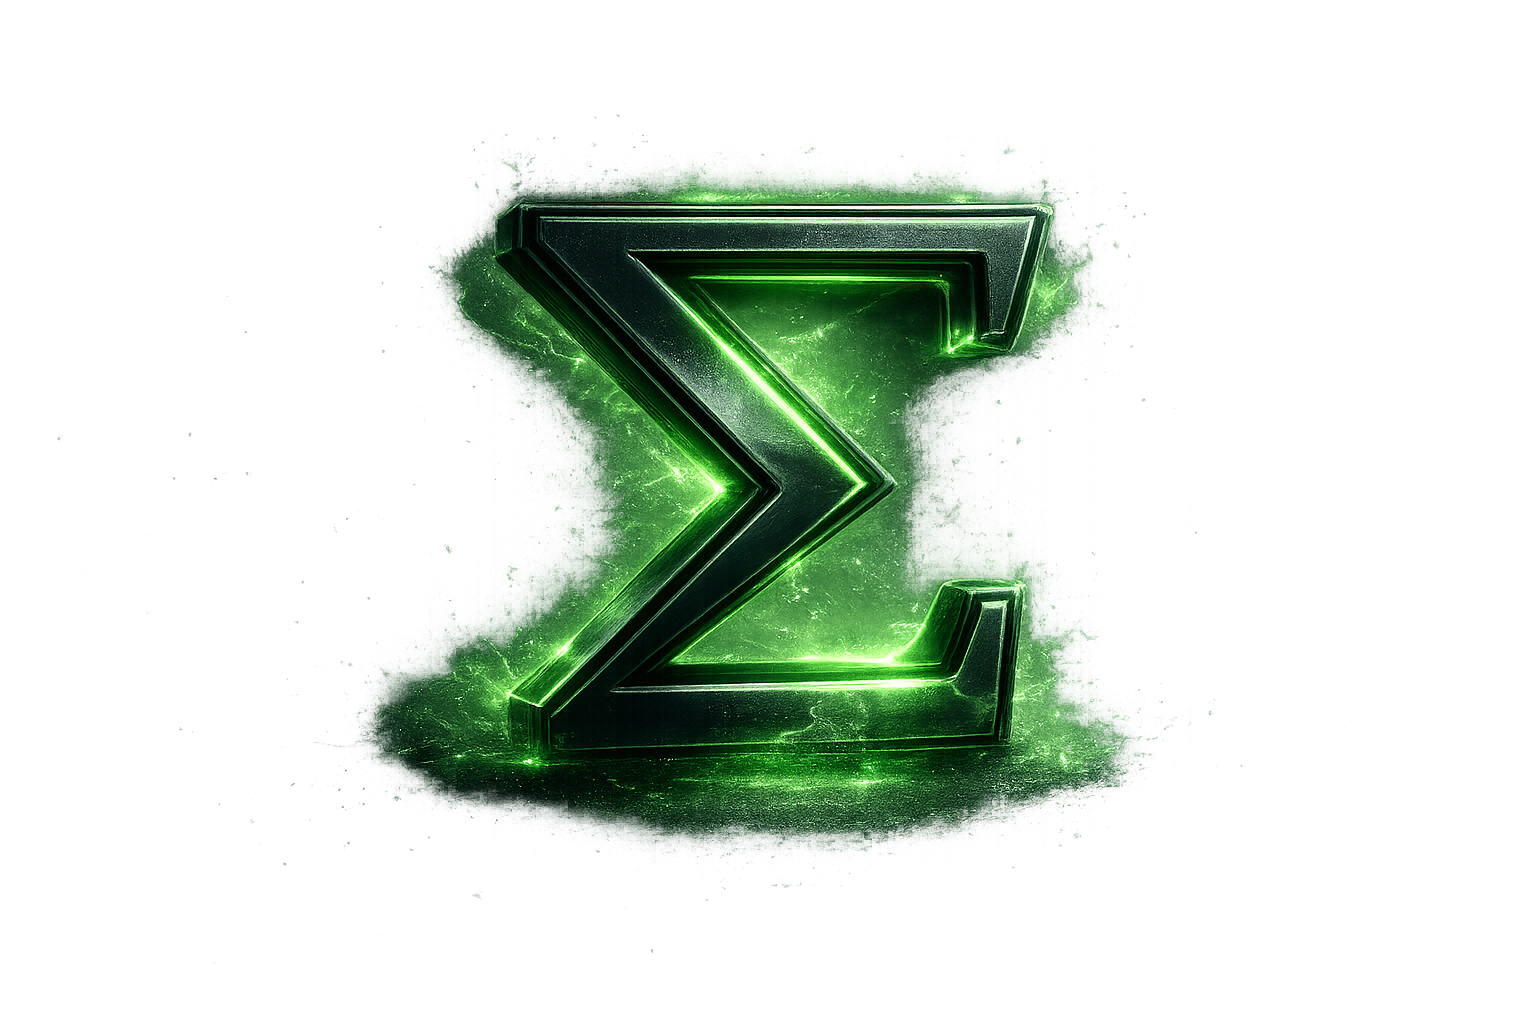
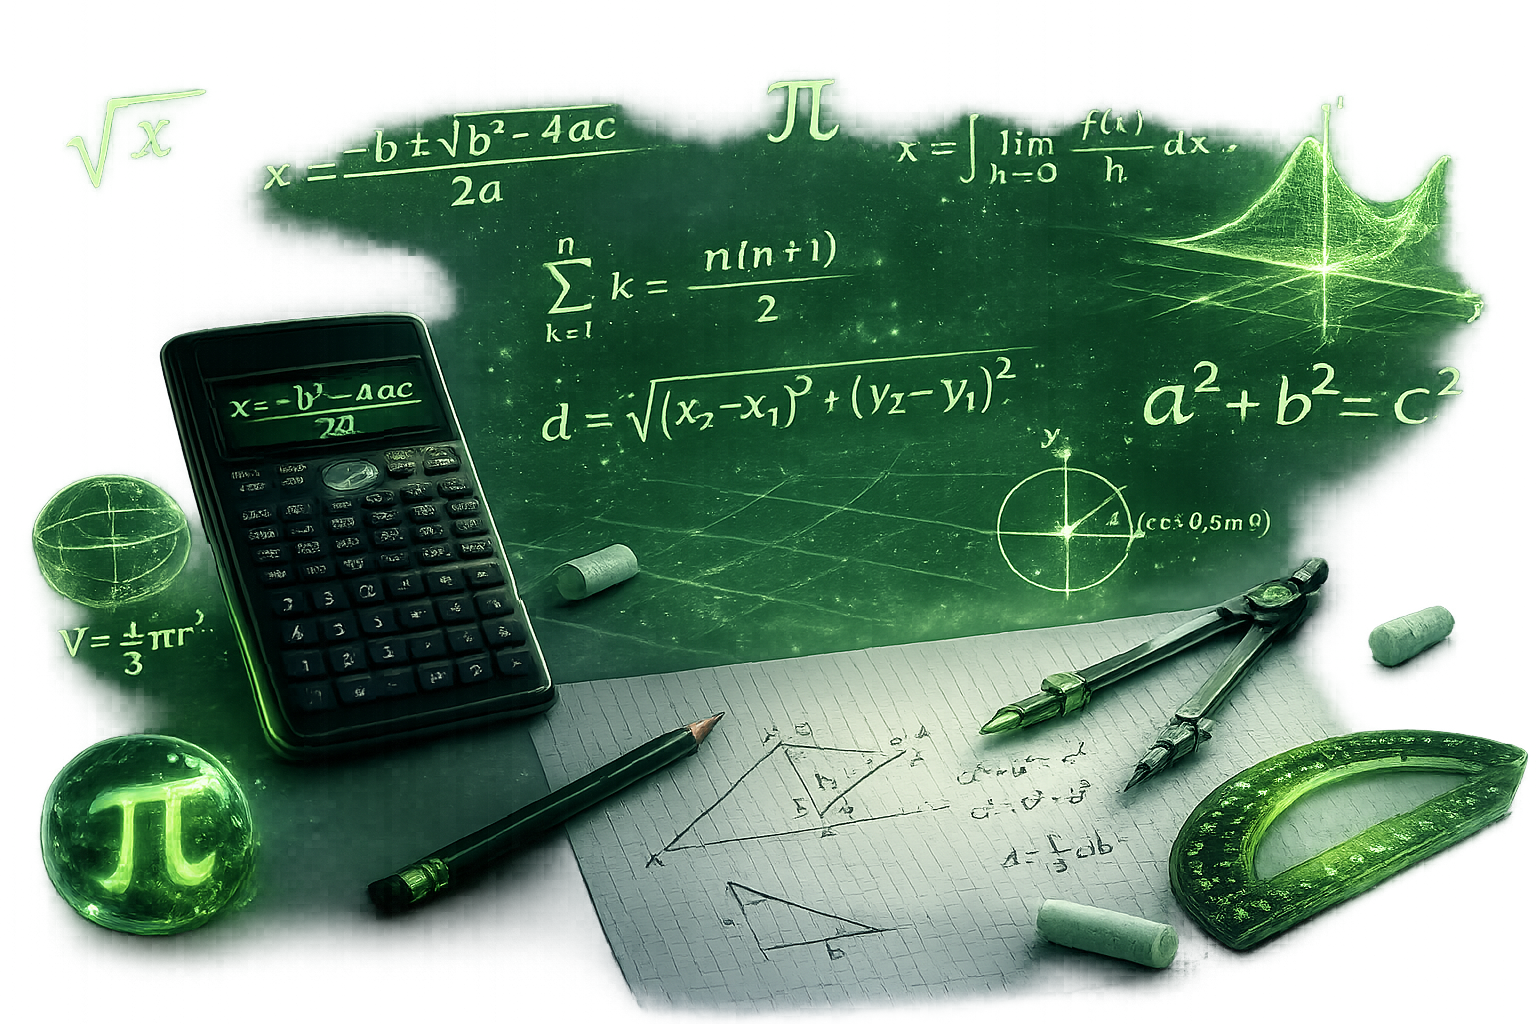
feat(subjects): biologiya fani qoshildi + 5ta fan uchun rasm (matematika yangilandi)

diff --git a/src/config/subjects.tsx b/src/config/subjects.tsx
@@ -6,7 +6,7 @@
  * available: false → "Tez kunda" holatida ko'rsatiladi (locked).
  * available: true bo'lishi uchun fan ma'lumotlari (API/questions) tayyor bo'lishi kerak.
  */
-import { Car, Zap, FlaskConical, Globe, BookOpen, type LucideIcon, type LucideProps } from 'lucide-react'
+import { Car, Zap, FlaskConical, Globe, BookOpen, Dna, type LucideIcon, type LucideProps } from 'lucide-react'
 
 export interface SubjectConfig {
   id: string
@@ -100,6 +100,17 @@ export const SUBJECTS: SubjectConfig[] = [
     icon: BookOpen,
     color: '#ff4b4b',
     colorDark: '#d93f3f',
+    dataSourceId: 'traffic_rules_db',
+    demoData: true,
+    available: true,
+  },
+  {
+    id: 'biologiya',
+    name: 'Biologiya',
+    nameRu: 'Биология',
+    icon: Dna,
+    color: '#00cd9c',
+    colorDark: '#00a87e',
     dataSourceId: 'traffic_rules_db',
     demoData: true,
     available: true,
